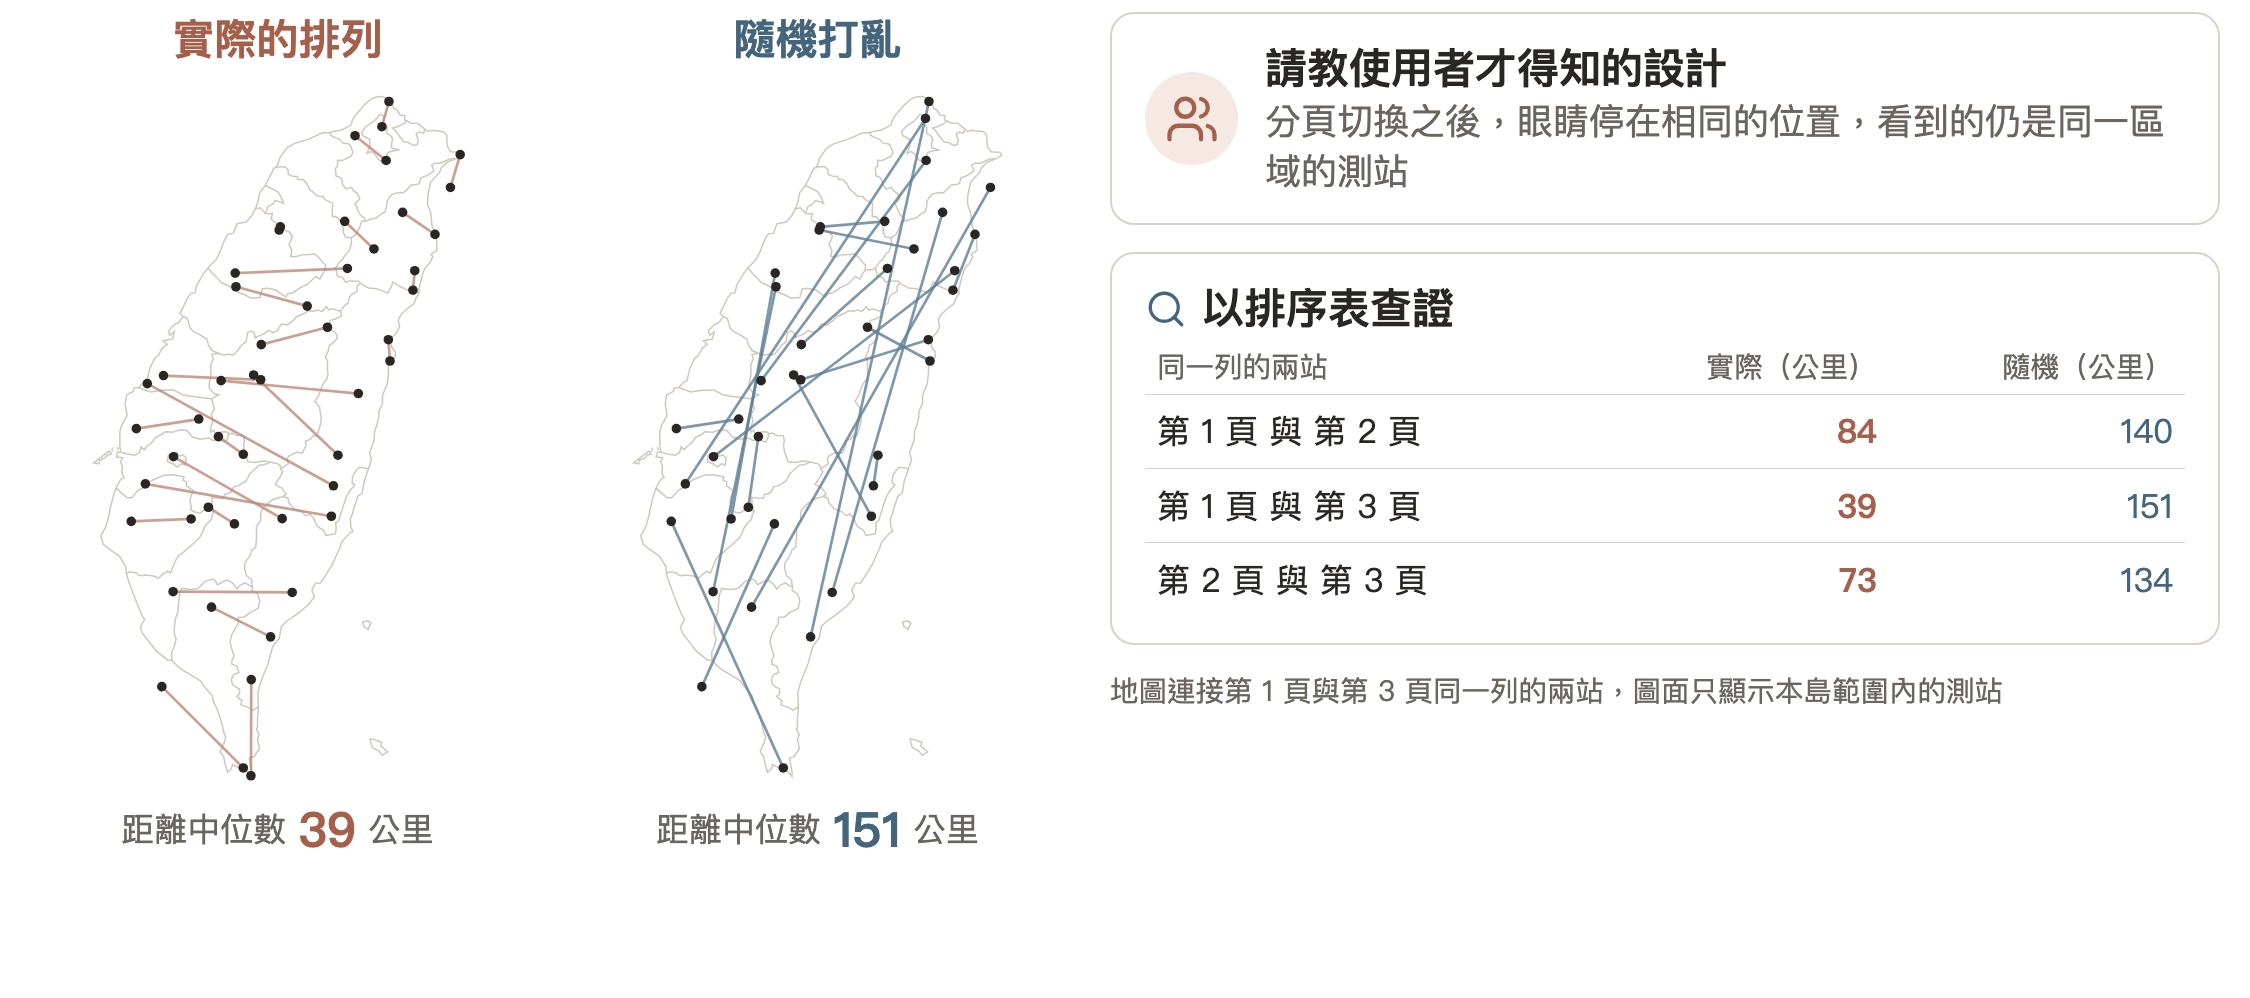
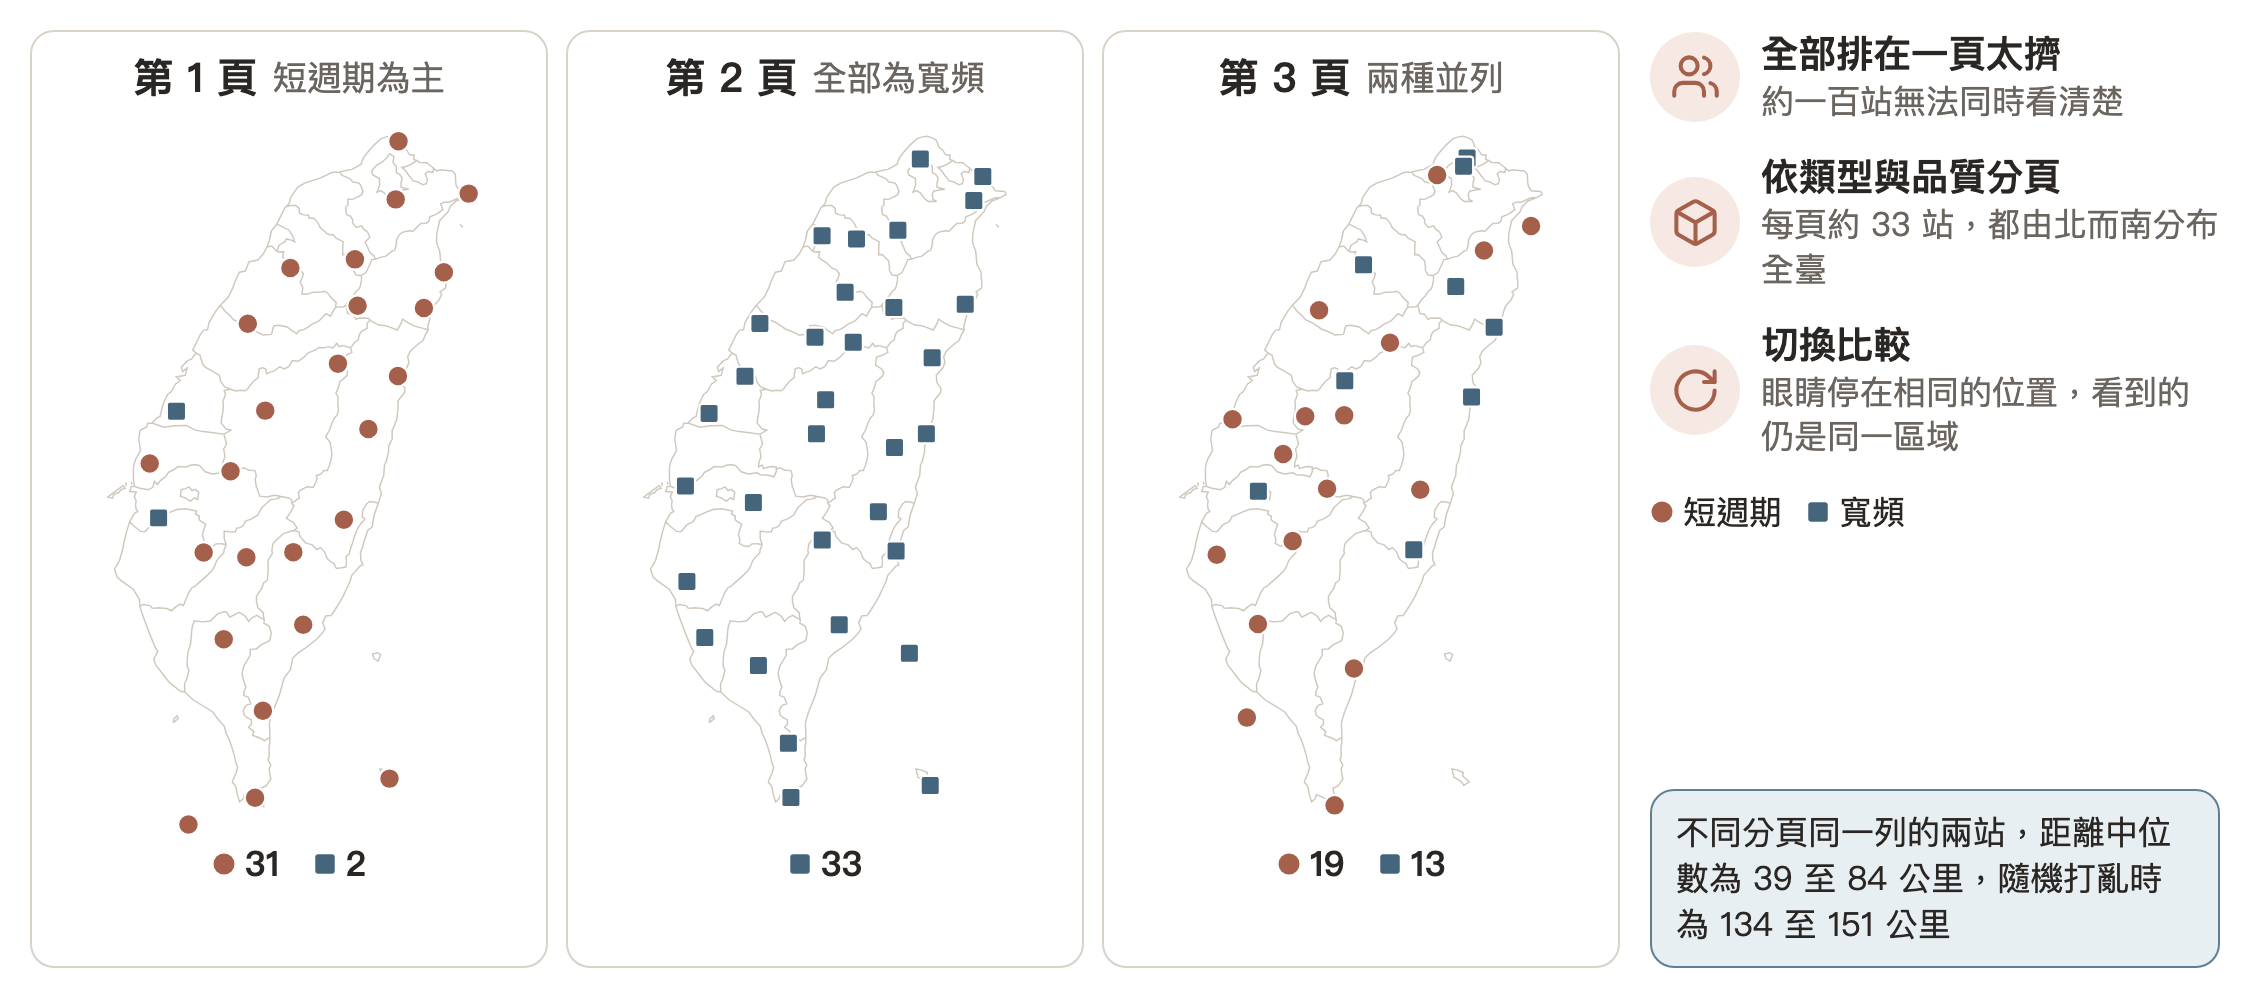
第八週：更正測站分頁的說明，第 12 頁重畫

diff --git a/assets/week8-diagrams/slides/build.py b/assets/week8-diagrams/slides/build.py
@@ -192,22 +192,21 @@ def s9():
 
 
 # ---------------- 第 12 頁
-@slide(12, "page-map", "三、畫面", "測站分頁", "不同分頁中位置相近的列，對應的測站在地圖上也相近")
+@slide(12, "page-map", "三、畫面", "測站分頁", "測站依類型與品質分成三頁，切換分頁時像是比較三個圖層")
 def s12():
     m = json.loads((HERE / "w8-12-map.json").read_text())
-    def panel(key, title, c, med):
-        return (f'<div class="col" style="align-items:center"><div class="t" style="color:{c}">{title}</div>'
-                f'<svg width="{m["w"]}" height="{m["h"]}" viewBox="0 0 {m["w"]} {m["h"]}" style="margin-top:6px">{m[key]}</svg>'
-                f'<div class="row" style="gap:8px;margin-top:0;font-size:22px;color:{MUTED}">距離中位數 <b style="font-size:32px;color:{c}">{med}</b> 公里</div></div>')
-    rows = [("第 1 頁", "第 2 頁", "84", "140"), ("第 1 頁", "第 3 頁", "39", "151"), ("第 2 頁", "第 3 頁", "73", "134")]
-    tr = "".join(f'<tr><td style="padding:9px 8px;border-top:1px solid {LINE}">{a} 與 {b}</td><td style="text-align:right;padding:9px 8px;border-top:1px solid {LINE};font-weight:700;color:{ACCENT_D}">{c}</td><td style="text-align:right;padding:9px 8px;border-top:1px solid {LINE};color:{BLUE_D}">{d}</td></tr>' for a, b, c, d in rows)
-    side = (f'<div class="col" style="flex:1;gap:18px">'
-            f'<div class="card row" style="gap:18px">{badge("users", "a", 36)}<div><div class="t">請教使用者才得知的設計</div><div class="s">分頁切換之後，眼睛停在相同的位置，看到的仍是同一區域的測站</div></div></div>'
-            f'<div class="card"><div class="row" style="gap:10px;margin-bottom:4px">{ic("search", 28, BLUE_D)}<span class="t">以排序表查證</span></div>'
-            f'<table style="width:100%;border-collapse:collapse;font-size:22px"><tr style="color:{MUTED};font-size:19px"><td style="padding:4px 8px">同一列的兩站</td><td style="text-align:right;padding:4px 8px">實際（公里）</td><td style="text-align:right;padding:4px 8px">隨機（公里）</td></tr>{tr}</table></div>'
-            f'<div class="note">地圖連接第 1 頁與第 3 頁同一列的兩站，圖面只顯示本島範圍內的測站</div></div>')
-    return (f'<div class="row" style="gap:30px;height:100%;align-items:flex-start;margin-top:-12px">'
-            + panel("same", "實際的排列", ACCENT_D, m["median_same"]) + panel("shuf", "隨機打亂", BLUE_D, m["median_shuf"]) + side + '</div>')
+    pages = [("1", "第 1 頁", "短週期為主", 31, 2), ("2", "第 2 頁", "全部為寬頻", 0, 33), ("3", "第 3 頁", "兩種並列", 19, 13)]
+    cards = ""
+    for k, t, d, sp, bb in pages:
+        counts = (f'<span class="row" style="gap:6px"><svg width="16" height="16"><circle cx="8" cy="8" r="7" fill="{ACCENT_D}"/></svg>{sp}</span>' if sp else "") + f'<span class="row" style="gap:6px"><svg width="16" height="16"><rect x="1.5" y="1.5" width="13" height="13" rx="2" fill="{BLUE_D}"/></svg>{bb}</span>'
+        cards += (f'<div class="card col" style="flex:1;align-items:center;padding:12px 8px 10px"><div class="row" style="gap:10px"><b style="font-size:27px">{t}</b><span style="font-size:23px;color:{MUTED}">{d}</span></div>'
+                  f'<svg width="325" height="473" viewBox="0 0 {m["w"]} {m["h"]}" style="margin:6px 0 10px;overflow:visible">{m["layers"][k]}</svg><div class="row" style="gap:22px;font-size:23px;font-weight:600">{counts}</div></div>')
+    steps = [("users", "全部排在一頁太擠", "約一百站無法同時看清楚"), ("box", "依類型與品質分頁", "每頁約 33 站，都由北而南分布全臺"), ("refresh", "切換比較", "眼睛停在相同的位置，看到的仍是同一區域")]
+    st = "".join(f'<div class="row" style="gap:14px">{badge(i, "a", 34)}<div><div style="font-size:25px;font-weight:700;line-height:1.3">{a}</div><div style="font-size:22px;color:{MUTED};line-height:1.35">{b}</div></div></div>' for i, a, b in steps)
+    side = (f'<div class="col" style="width:380px;gap:20px;height:100%">{st}'
+            f'<div class="row" style="gap:16px;font-size:22px"><span class="row" style="gap:6px"><svg width="16" height="16"><circle cx="8" cy="8" r="7" fill="{ACCENT_D}"/></svg>短週期</span><span class="row" style="gap:6px"><svg width="16" height="16"><rect x="1.5" y="1.5" width="13" height="13" rx="2" fill="{BLUE_D}"/></svg>寬頻</span></div>'
+            f'<div class="card b" style="margin-top:auto;padding:12px 16px;font-size:22px;line-height:1.4">不同分頁同一列的兩站，距離中位數為 39 至 84 公里，隨機打亂時為 134 至 151 公里</div></div>')
+    return f'<div class="row" style="gap:20px;height:100%;align-items:stretch"><div class="row" style="flex:1;gap:12px;align-items:stretch">{cards}</div>{side}</div>'
 
 
 # ---------------- 第 14 頁

diff --git a/drafts/25-week8-slides.md b/drafts/25-week8-slides.md
@@ -208,17 +208,17 @@
 **畫面**
 
 - 版面：圖為主
-- 主訊息：不同分頁中位置相近的列，對應的測站在地圖上也相近
-- 圖：`assets/week8-diagrams/w8-12-page-map.png`｜地圖上標出各分頁同一列的測站：實際排列集中，隨機打亂時分散【待畫】
-- 段落：同一列測站的距離中位數為 39 至 84 公里，隨機打亂時為 135 至 150 公里。
+- 主訊息：測站依類型與品質分成三頁，切換分頁時像是比較三個圖層
+- 圖：`assets/week8-diagrams/w8-12-page-map.png`｜三頁的測站分布：第 1 頁以短週期為主，第 2 頁全部為寬頻，第 3 頁兩種並列，每頁都涵蓋全臺
+- 段落：不同分頁同一列的兩站，距離中位數為 39 至 84 公里，隨機打亂時為 134 至 151 公里。
 
 **筆記**
 
-- 口述：這是請教使用者才得知的設計。分頁切換之後，眼睛停在相同的位置，看到的仍然是同一區域的測站。統計是以排序表查證的結果。
+- 口述：這是請教使用者才得知的設計。測站全部排在一頁會太擠，因此依類型與品質分成三頁，每頁約 33 站，都由北而南分布全臺。切換分頁時，眼睛停在相同的位置，看到的仍是同一區域的測站，所以三頁就像三個可以切換比較的圖層。類型的統計與距離是以排序表查證的結果。
 
 **原話與來源**
 
-- 原話：「分頁測站有照著測站的位置去排，所以每個分頁差不多的位置在地圖上也是相近的」（11/02）
+- 原話：「分頁測站有照著測站的位置去排，所以每個分頁差不多的位置在地圖上也是相近的」（11/02）；「原本要全部排起來可能畫面會很擠，所以照測站類型與品質分成三頁，這樣就有點像三個圖層可以切換比較」（11/03）
 
 ### 13｜逐步導入
 

diff --git a/drafts/23-week8-outline.md b/drafts/23-week8-outline.md
@@ -69,7 +69,7 @@
 
 **方向：原有的操作先沿用，新功能與新操作由使用者自己選擇，逐步吸收。**
 
-- 沿用原有的習慣：原本的功能當初設計出來多半有其目的，這些目的不一定寫在程式碼或文件中。若未沿用，使用者可能找不到原本依賴的資訊，因此重寫之前先向使用者請教用途，尚未確認的先沿用。佐證：測站分頁依位置排列，不同分頁中位置相近的列，對應的測站在地圖上也相近，這是請教使用者才得知的。以排序表查證，同一列的測站距離中位數為 39 至 84 公里，隨機打亂時為 135 至 150 公里。
+- 沿用原有的習慣：原本的功能當初設計出來多半有其目的，這些目的不一定寫在程式碼或文件中。若未沿用，使用者可能找不到原本依賴的資訊，因此重寫之前先向使用者請教用途，尚未確認的先沿用。佐證：測站全部排在一頁會太擠，因此依類型與品質分成三頁，每頁都由北而南分布全臺，切換時像是比較三個圖層，這是請教使用者才得知的。以排序表查證，第 1 頁以短週期為主，第 2 頁全部為寬頻，第 3 頁兩種並列；同一列的兩站距離中位數為 39 至 84 公里，隨機打亂時為 134 至 151 公里。
 - 實驗性功能：原本沒有的功能各自設有開關，預設關閉，目前有 14 項。一方面可以測試尚未成熟的功能，一方面降低學習門檻，使用者逐項打開，不會因為一次變化太大而不知道如何使用。大家接受並使用一段時間之後，就併入一般功能。
 - 自訂操作方式：開發者的新想法放到設定頁作為選項（例如滾輪的用法），由使用者自行選擇。這樣保有創新的空間，使用者也不會在工作趕時間時受到阻礙。
 

diff --git a/工作紀錄.md b/工作紀錄.md
@@ -1182,3 +1182,4 @@
 - 2026-11-03 續：使用者要求依逐頁稿與大綱的細節畫成投影片式的示意圖並加上 icon，接著要求整份都用這種方式，成為只由圖片組成的投影片。新增 assets/week8-diagrams/slides/（build.py、deck.py），32 頁加 7 張段落頁，以 Chrome 無頭模式輸出 PNG，組成 slides/week8.pptx，備註取自逐頁稿。第 12 頁改用實際測站座標，第 21 頁用兩天統計，第 25 頁依修改紀錄；原訂截圖的頁面暫以虛構資料的畫面示意。
 - 2026-11-03 續：使用者要求先寫成網頁上的文稿。新增 lessons/08-relocation-redesign.qmd，內容依大綱第四版與逐頁稿，配圖為投影片各頁的主體（assets/week8-figs/，build.py figs 產生）；首頁課表與 schedule.tsv 先以候選課名「定位工作的翻新設計」更新，投影片連結與課程表 PDF 尚未更新。這台電腦沒有 Quarto，以 pandoc 預覽，尚未以 Quarto 實際建置。
 - 2026-11-03 續：使用者要求投影片加上截圖。以獨立的無頭瀏覽器操作開發中的系統，擋下寫入類的請求，繪製時把測站代碼、舊程式名稱、使用者與專案名稱替換，資料庫比對無變動。第 5、6、10、13、15、16、19 頁改用實際畫面，截圖放 assets/week8-shots/，含真實的事件資料，不進 git；網頁文稿仍用示意畫面。
+- 2026-11-03 續：使用者修正測站分頁的意思：全部排在一頁會太擠，因此依類型與品質分成三頁，像三個可以切換比較的圖層。重畫第 12 頁，逐頁稿、大綱與文稿一併更正。排序表可查證類型（第 1 頁短週期 31 站、寬頻 2 站；第 2 頁寬頻 33 站；第 3 頁短週期 19 站、寬頻 13 站），品質的依據來自使用者，排序表沒有對應的欄位可以確認。
